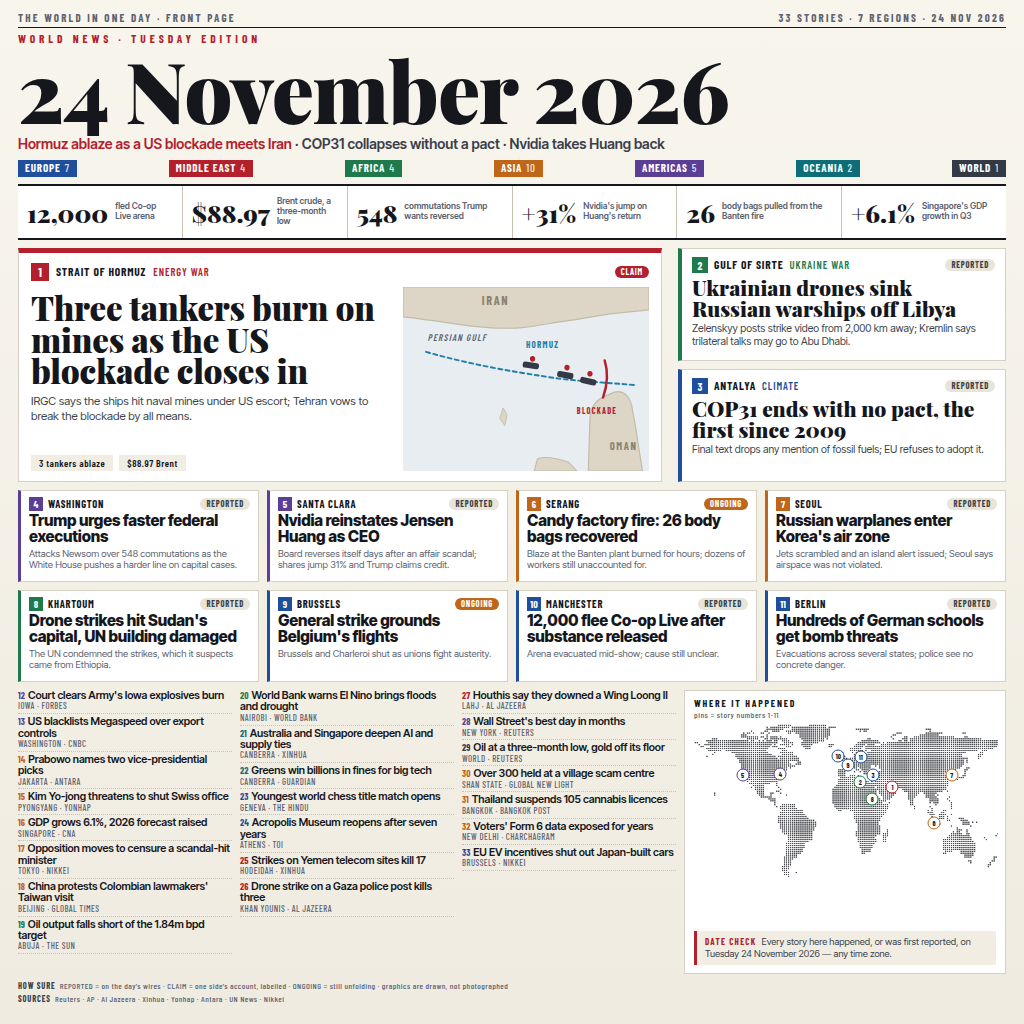
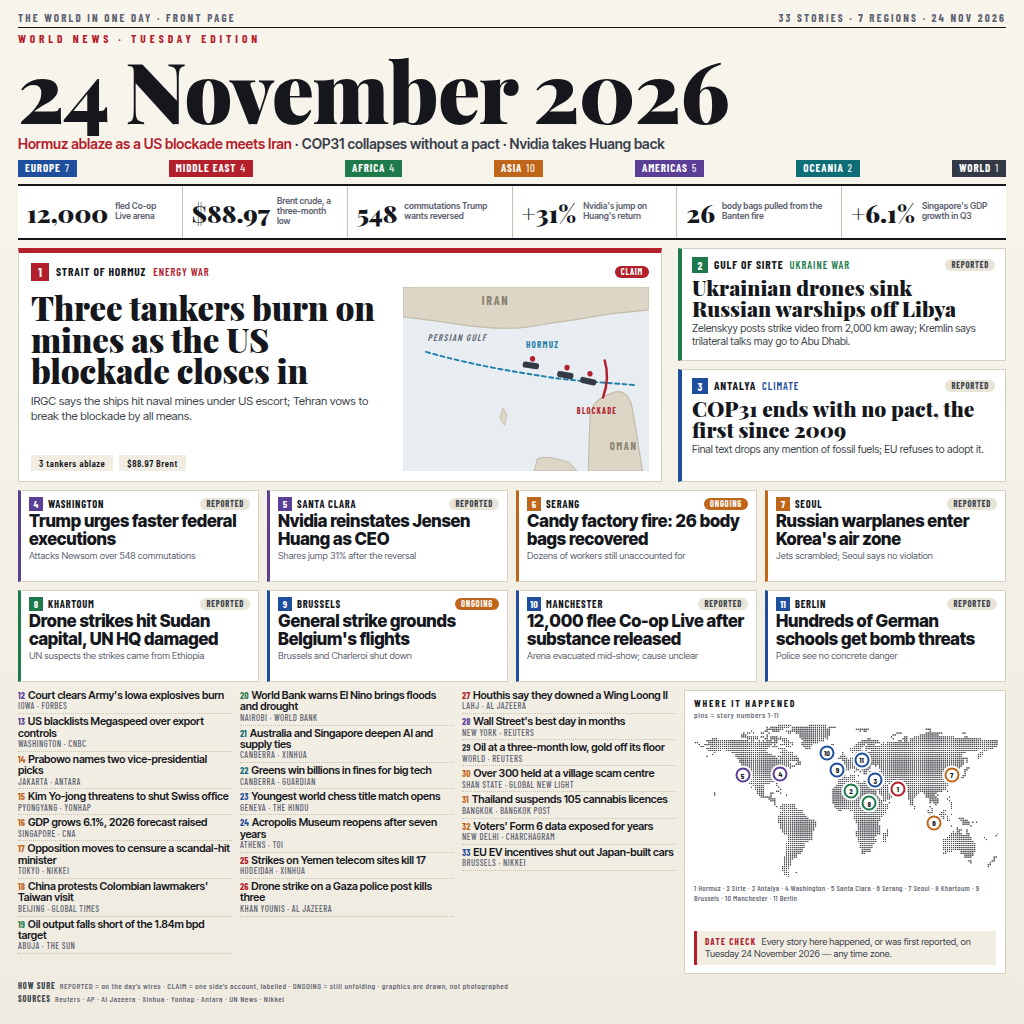
Enlarge card headlines and add a pin key to the map

diff --git a/tools/poster.html b/tools/poster.html
@@ -112,8 +112,8 @@
   .card-head .nsq{ width:14px; height:14px; font-size:10px; }
   .card-head .place{ font-size:10.5px; }
   .card-head .pill{ margin-left:auto; }
-  .card h4{ margin-top:2px; font:800 15.5px/1.05 'Inter Tight'; letter-spacing:-.01em; }
-  .card .cdeck{ margin-top:2px; font:400 9.6px/1.2 'Inter Tight'; color:var(--grey); }
+  .card h4{ margin-top:2px; font:800 17px/1.04 'Inter Tight'; letter-spacing:-.01em; }
+  .card .cdeck{ margin-top:2px; font:400 9.4px/1.2 'Inter Tight'; color:var(--grey); white-space:nowrap; overflow:hidden; text-overflow:ellipsis; }
 
   /* ---------- i) bottom: briefs + map card ---------- */
   .bottom{ margin-top:8px; height:284px; display:flex; gap:8px; }
@@ -131,11 +131,12 @@
   .mapwrap{ position:relative; margin-top:5px; }
   .mapwrap img{ width:304px; height:155px; display:block; }
   .pin{
-    position:absolute; box-sizing:border-box; width:13px; height:13px; border-radius:50%;
-    background:#fff; border:1.8px solid; transform:translate(-50%,-50%);
+    position:absolute; box-sizing:border-box; width:15px; height:15px; border-radius:50%;
+    background:#fff; border:2px solid; box-shadow:0 0 0 2px #fff; transform:translate(-50%,-50%);
     display:flex; align-items:center; justify-content:center;
-    font:700 7px/1 'Barlow Condensed'; color:var(--ink);
+    font:700 8px/1 'Barlow Condensed'; color:var(--ink);
   }
+  .mapcap{ margin-top:4px; font:500 8px/1.25 'Barlow Condensed'; letter-spacing:.03em; color:var(--grey); }
   .datecheck{
     margin-top:auto; background:var(--chip); border-left:3px solid var(--red);
     padding:5px 8px; font:400 9.4px/1.3 'Inter Tight'; color:var(--midgrey);
@@ -283,42 +284,42 @@
     <div class="card b-am">
       <div class="card-head"><span class="nsq r-am">4</span><span class="place">Washington</span><span class="pill reported">REPORTED</span></div>
       <h4>Trump urges faster federal executions</h4>
-      <p class="cdeck">Attacks Newsom over 548 commutations as the White House pushes a harder line on capital cases.</p>
+      <p class="cdeck">Attacks Newsom over 548 commutations</p>
     </div>
     <div class="card b-am">
       <div class="card-head"><span class="nsq r-am">5</span><span class="place">Santa Clara</span><span class="pill reported">REPORTED</span></div>
       <h4>Nvidia reinstates Jensen Huang as CEO</h4>
-      <p class="cdeck">Board reverses itself days after an affair scandal; shares jump 31% and Trump claims credit.</p>
+      <p class="cdeck">Shares jump 31% after the reversal</p>
     </div>
     <div class="card b-as">
       <div class="card-head"><span class="nsq r-as">6</span><span class="place">Serang</span><span class="pill ongoing">ONGOING</span></div>
       <h4>Candy factory fire: 26 body bags recovered</h4>
-      <p class="cdeck">Blaze at the Banten plant burned for hours; dozens of workers still unaccounted for.</p>
+      <p class="cdeck">Dozens of workers still unaccounted for</p>
     </div>
     <div class="card b-as">
       <div class="card-head"><span class="nsq r-as">7</span><span class="place">Seoul</span><span class="pill reported">REPORTED</span></div>
       <h4>Russian warplanes enter Korea's air zone</h4>
-      <p class="cdeck">Jets scrambled and an island alert issued; Seoul says airspace was not violated.</p>
+      <p class="cdeck">Jets scrambled; Seoul says no violation</p>
     </div>
     <div class="card b-af">
       <div class="card-head"><span class="nsq r-af">8</span><span class="place">Khartoum</span><span class="pill reported">REPORTED</span></div>
-      <h4>Drone strikes hit Sudan's capital, UN building damaged</h4>
-      <p class="cdeck">The UN condemned the strikes, which it suspects came from Ethiopia.</p>
+      <h4>Drone strikes hit Sudan capital, UN HQ damaged</h4>
+      <p class="cdeck">UN suspects the strikes came from Ethiopia</p>
     </div>
     <div class="card b-eu">
       <div class="card-head"><span class="nsq r-eu">9</span><span class="place">Brussels</span><span class="pill ongoing">ONGOING</span></div>
       <h4>General strike grounds Belgium's flights</h4>
-      <p class="cdeck">Brussels and Charleroi shut as unions fight austerity.</p>
+      <p class="cdeck">Brussels and Charleroi shut down</p>
     </div>
     <div class="card b-eu">
       <div class="card-head"><span class="nsq r-eu">10</span><span class="place">Manchester</span><span class="pill reported">REPORTED</span></div>
       <h4>12,000 flee Co-op Live after substance released</h4>
-      <p class="cdeck">Arena evacuated mid-show; cause still unclear.</p>
+      <p class="cdeck">Arena evacuated mid-show; cause unclear</p>
     </div>
     <div class="card b-eu">
       <div class="card-head"><span class="nsq r-eu">11</span><span class="place">Berlin</span><span class="pill reported">REPORTED</span></div>
       <h4>Hundreds of German schools get bomb threats</h4>
-      <p class="cdeck">Evacuations across several states; police see no concrete danger.</p>
+      <p class="cdeck">Police see no concrete danger</p>
     </div>
   </div>
 
@@ -360,18 +361,19 @@
       <div class="mh2">pins = story numbers 1-11</div>
       <div class="mapwrap">
         <img src="map.png" alt="dotted world map">
-        <div class="pin" style="left:65.7%; top:40.4%; border-color:#B3202C">1</div>
-        <div class="pin" style="left:55.1%; top:37.5%; border-color:#1E7A4B">2</div>
-        <div class="pin" style="left:59.3%; top:32.5%; border-color:#1F4E9C">3</div>
+        <div class="pin" style="left:67.5%; top:41.5%; border-color:#B3202C">1</div>
+        <div class="pin" style="left:52.0%; top:43.0%; border-color:#1E7A4B">2</div>
+        <div class="pin" style="left:60.0%; top:36.0%; border-color:#1F4E9C">3</div>
         <div class="pin" style="left:28.6%; top:31.8%; border-color:#5B3E96">4</div>
         <div class="pin" style="left:16.1%; top:32.9%; border-color:#5B3E96">5</div>
         <div class="pin" style="left:79.5%; top:63.5%; border-color:#C0661A">6</div>
         <div class="pin" style="left:85.3%; top:32.7%; border-color:#C0661A">7</div>
-        <div class="pin" style="left:59.0%; top:48.2%; border-color:#1E7A4B">8</div>
-        <div class="pin" style="left:51.0%; top:26.0%; border-color:#1F4E9C">9</div>
-        <div class="pin" style="left:47.8%; top:20.2%; border-color:#1F4E9C">10</div>
-        <div class="pin" style="left:55.2%; top:21.0%; border-color:#1F4E9C">11</div>
+        <div class="pin" style="left:58.0%; top:51.0%; border-color:#1E7A4B">8</div>
+        <div class="pin" style="left:47.5%; top:29.5%; border-color:#1F4E9C">9</div>
+        <div class="pin" style="left:44.0%; top:18.5%; border-color:#1F4E9C">10</div>
+        <div class="pin" style="left:55.5%; top:23.0%; border-color:#1F4E9C">11</div>
       </div>
+      <div class="mapcap">1 Hormuz · 2 Sirte · 3 Antalya · 4 Washington · 5 Santa Clara · 6 Serang · 7 Seoul · 8 Khartoum · 9 Brussels · 10 Manchester · 11 Berlin</div>
       <div class="datecheck"><b>DATE CHECK</b>Every story here happened, or was first reported, on Tuesday 24 November 2026 — any time zone.</div>
     </div>
   </div>
